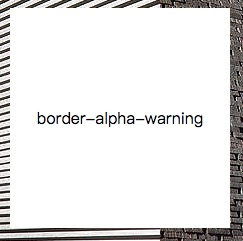
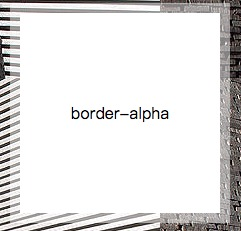
outline

Changed region(s): [[0.0, 0.0, 1.0, 1.0], [0.1452, 0.4545, 0.8423, 0.5455]]

diff --git a/chpt2/chpt001.html b/chpt2/chpt001.html
@@ -2,7 +2,7 @@
 <html lang="en">
 <head>
 	<meta charset="UTF-8">
-	<title>半透明边框</title>
+	<title>半透明边框、多重边框</title>
 	<link rel="stylesheet" type="text/css" href="../style/main.css">
 	 <style type="text/css">
 		body {
@@ -19,31 +19,33 @@
 	 	}
 	 	.border-box-shadow {
 	 		background: yellowgreen;
+	 		box-shadow: 0 0 0 10px #655;
+	 	}
+	 	.border-box-shadow-2 {
+	 		background: yellowgreen;
 	 		box-shadow: 0 0 0 10px #655, 0 0 0 15px deeppink;
 	 	}
 	 	.border-box-shadow-3 {
 	 		background: yellowgreen;
 	 		box-shadow: 0 0 0 10px #655,
 	 					0 0 0 15px deeppink,
-	 					0 2px 5px 15px rgba(0, 0, 0, 0.6)
+	 					0 2px 5px 15px rgba(0, 255, 0, 0.6)
 	 	}
 	 	.border-outline {
 	 		background: yellowgreen;
 	 		border: 10px solid #655;
 	 		outline: 5px solid deeppink;
-	 		outline-offset: -15px;
 	 	}
 	 	.border-outline-offset {
 	 		background: yellowgreen;
-	 		border: 10px solid #655;
-	 		outline: 1px dashed deeppink;
+	 		outline: 1px dashed #fff;
 	 		outline-offset: -15px;
 	 	}
-	 	.border-outline-offset-bug {
+	 	.border-outline-bug {
 	 		background: yellowgreen;
 	 		border: 10px solid #655;
 			outline: 5px solid deeppink;
-			border-radius: 5px;
+			border-radius: 20px;
 	 	}
 	 	.back-pos {
 	 		height: 200px;
@@ -65,23 +67,29 @@
 	<div class="demo-block border-alpha">
 		border-alpha
 	</div>
-	<!-- <div class="demo border-box-shadow">
+	<div class="demo-block border-box-shadow">
 		border-box-shadow
 	</div>
-	<div class="demo border-box-shadow-3">
+	<div class="demo-block border-box-shadow-2">
+		border-box-shadow-2
+	</div>
+	<div class="demo-block border-box-shadow-3">
 		border-box-shadow-3
 	</div>
-	<div class="demo border-outline">
+	<div class="demo-block border-outline">
 		border-outline
 	</div>
-	<div class="demo border-outline-offset-bug">
-		border-outline-offset-bug
+	<div class="demo-block border-outline-offset">
+		border-outline-offset
 	</div>
-	<div class="demo back-pos">
+	<div class="demo-block border-outline-bug">
+		border-outline-bug
+	</div>
+	<div class="demo-block back-pos">
 		Code Pirate
 	</div>
-	<div class="demo back-pos-origin">
+	<div class="demo-block back-pos-origin">
 		Code Pirate
-	</div> -->
+	</div>
 </body>
 </html>

diff --git a/index.html b/index.html
@@ -32,7 +32,7 @@
 	</div>
 	<div class="btn">
 		<h3>第二章</h3>
-		<a href="chpt2/chpt001.html">半透明边框</a> <br>
+		<a href="chpt2/chpt001.html">半透明边框、多重边框</a> <br>
 		<a href="chpt2/chpt002.html">边框内圆角 </a> <br>	
 		<a href="chpt2/chpt003.html">box-shadow </a> <br>
 		<a href="chpt2/chpt004.html"> DRY </a> <br>			

diff --git a/chpt2/README.md b/chpt2/README.md
@@ -1,4 +1,4 @@
-## 第二章 背景与边框
+# 第二章 背景与边框
 
 > 	本章内容主要是css揭秘(css-secret)的学习笔记。
 
@@ -13,18 +13,92 @@
   border: 10px solid hsla(0, 0%, 100%, 0.5);
   background: white;
 }	
+.border-alpha {
+	border: 10px solid hsla(0, 0%, 100%, 0.5);
+	background: white;
+	background-clip: padding-box;
+}
 ```
 
-	效果图如下：
+	效果图并未实现边框的透明效果，这是什么原因那? css中祖先级的原色的背景会延伸到边框的区域下层，这导致，半透明边框显示的容器自身的背景(容器自身颜色为纯白色背景)。
 
-|           原理说明            |                   效果图                    |
-| :-----------------------: | :--------------------------------------: |
-| css中祖先级的元素背景默认会延伸到边框区域下层。 | ![border-alpha-w](../imgs/border-alpha-w.png) |
+	可以使css3的background-clip属性，将background的border-box(默认属性)改为padding-box, 这样半透明边框与祖先级背景处于同一背景层。
+
+	         ![border-alpha-w](../imgs/border-alpha-w.png)                                                 ![border-alpha](../imgs/border-alpha.png)
+
+			  **未实现透明边框**                                                                                       **实现透明边框**
 
 
+
+## 2. 多重边框
+
+> 	可以使用box-shadow和outline实现多重边框。
+
+### box-shadow
+
+	使用box-shadow实现多重边框代码如下：
+
+```css
+.border-box-shadow {
+	background: yellowgreen;
+	box-shadow: 0 0 0 10px #655, 0 0 0 15px deeppink;
+}
+.border-box-shadow-2 {
+	background: yellowgreen;
+	box-shadow: 0 0 0 10px #655, 0 0 0 15px deeppink;
+}
+.border-box-shadow-3 {
+	background: yellowgreen;
+	box-shadow: 0 0 0 10px #655,
+		0 0 0 15px deeppink,
+		0 2px 5px 15px rgba(0, 255, 0, 0.6)
+}
+```
+
+	效果图如下
+
+![border-box-shadow](../imgs/border-box-shadow.png)         ![border-box-shadow](../imgs/border-box-shadow-2.png)        ![border-box-shadow](../imgs/border-box-shadow-3.png)
+
+	         **单边框**                                                         **2层边框**                                                  **三层边框**
+
+	box-shadow是层层叠加的，第一层位于最顶层，依次类推。因此，在制作多层边框时，半径扩展要按照此规律依次扩展。如border-box-shadow-3中，box-shadow一层的长度10px、二层的长度15px、三层的长度15px，因此三层边框里一层边框10px、二层边框5px、三层边框0px，实现二重边框+5px的模糊面积。
+
+### outline
+
+> 使用outline方法结合border可以实现二重边框。
+
+使用outline实现二重边框代码如下
+
+```css
+.border-outline {
+ 	background: yellowgreen;
+ 	border: 10px solid #655;
+	outline: 5px solid deeppink;
+}
+.border-outline-offset {
+	background: yellowgreen;
+	border: 10px solid #655;
+ 	outline: 3px dashed deeppink;
+  	outline-offset: -15px;
+}
+.border-outline-bug {
+  	background: yellowgreen;
+ 	border: 10px solid #655;
+  	outline: 5px solid deeppink;
+ 	border-radius: 20px;
+}
+```
+
+	效果如下:	
+
+![border-outline](../imgs/border-outline.png)               ![border-outline-bug](../imgs/border-outline-offset.png)             ![border-outline-offset](../imgs/border-outline-bug.png)
+
+
+
++ outlines只适合双层边框
++ outline 在border-radius会产生间隙
++ outline 可以使offset产生内虚线
+
+## 灵活的背景定位
 
 	
-
-
-
-#  
